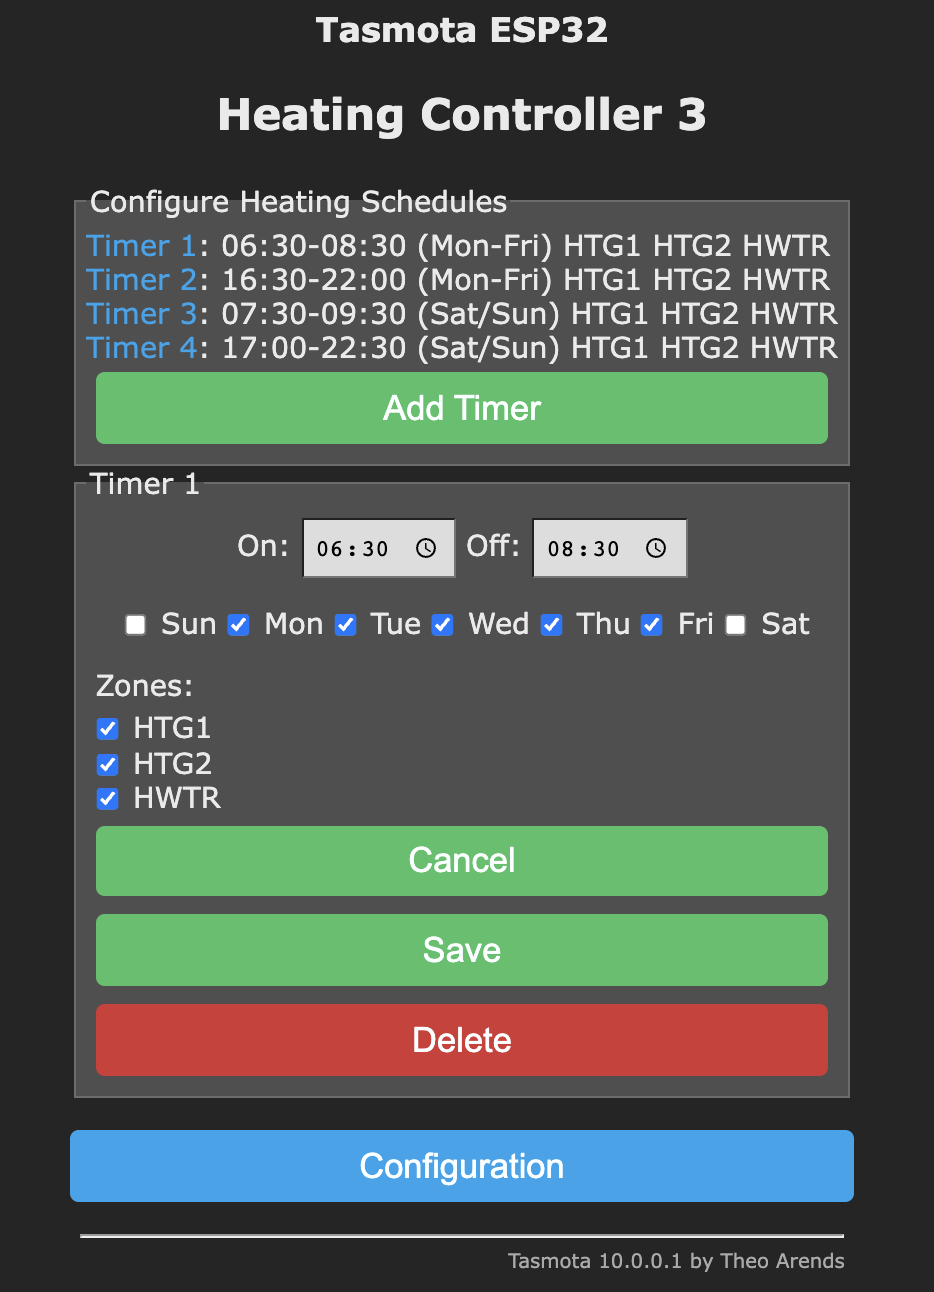
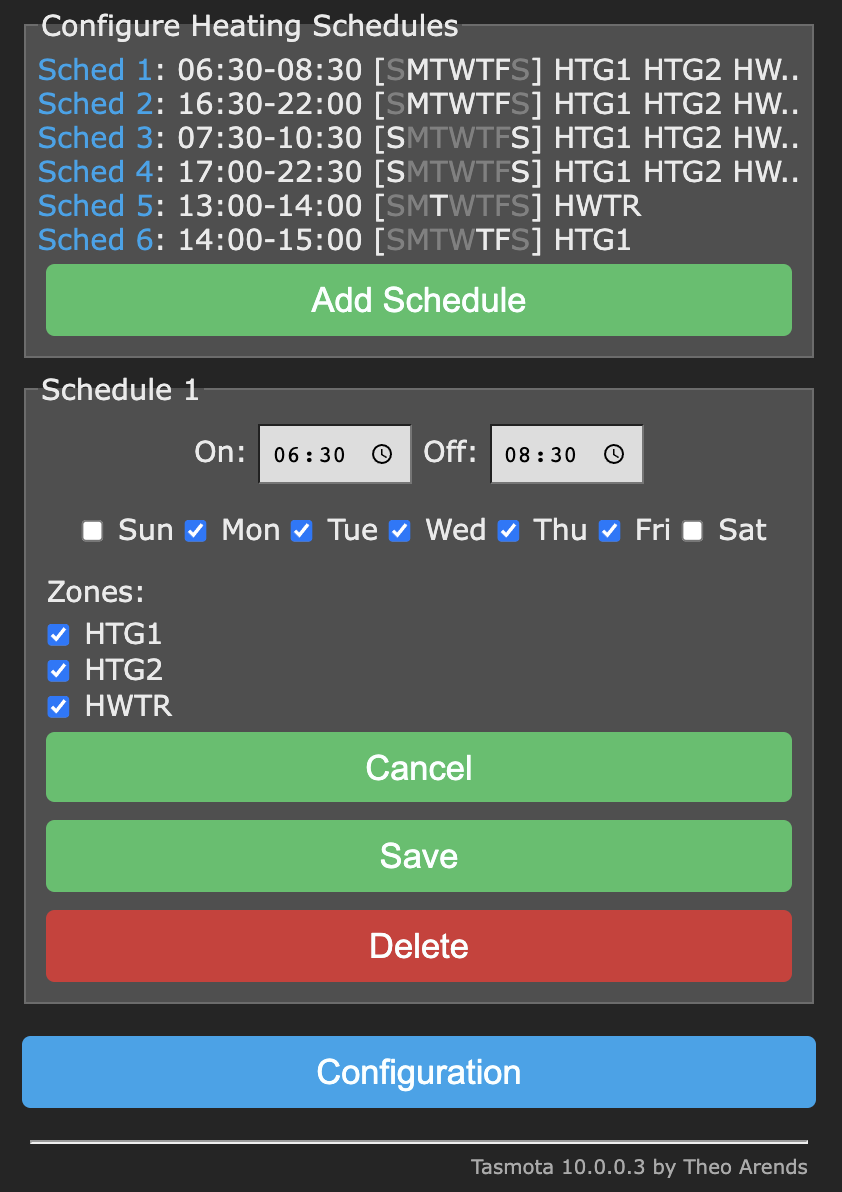
Updated screenshots
Also fixed a bug where the web sensor info was not updating on the home page after a zone label was updated.

diff --git a/README.md b/README.md
@@ -44,7 +44,7 @@ This heating controller was tested with Tasmota32.bin
 
 ### 2. Configure Template
 
-Using the Tasmota web UI, navigate to **Configuration | Configure Other**. Paste the following json template into the Template field. Tick "Activate" checkbox and "Save".
+Using the Tasmota web UI, navigate to **Configuration | Configure Other**. Paste the following json template into the Template field. Tick "Activate" checkbox and "Save". You may need to adjust the template to match the number of relays you have attached.
 
 ```json
 {"NAME":"Tasmota ESP32","GPIO":[1,1,1,1,1,1,1,1,1,1,1,1,1,1,1,1376,0,640,608,224,0,225,226,32,0,0,0,0,33,34,1,1,1,0,0,1],"FLAG":0,"BASE":1}
@@ -96,11 +96,12 @@ Options can be enabled/disabled by using the Configure Heating web page.
 
 ## Operation
 
-1. Use the Configure Heating web page to set zone labels, modes and schedules.
+1. Navigate to Configuration | Configure Heating to set zone labels, modes, schedules, and options. Or click on the Zone summary info at the top of the Tasmota Home page.
 
-<img src="/screenshots/manage_heating.png" width="400">
-<img src="/screenshots/manage_zone.png" width="400">
-<img src="/screenshots/manage_schedule.png" width="400">
+<img src="./screenshots/tasmota_home.png" width="400">
+<img src="./screenshots/manage_heating.png" width="400">
+<img src="./screenshots/manage_zone.png" width="400">
+<img src="./screenshots/manage_schedule.png" width="400">
 
 3. If physical buttons are configured, each button can operate an associated zone as follows. SINGLE press: zone will toggle from Auto to Advance mode. Auto on switches to Advance off and Auto off switches to Advance on etc. DOUBLE press: Zone switches mode in the following order with each double press: Auto -> All Day -> Const On -> Const Off -> Auto. TRIPLE press: mode switches from Auto to Boost (1 hour), or if boost is activated, from Boost to Auto.
 4. Ensure that schedule on/off times do not overlap as this may result in unexpected behaviour.
@@ -118,3 +119,6 @@ The scripts are large and if PSRAM is not present the heap may decrease to a poi
 ## Planned Enhancements
 
 If memory and system resources allow, a nice to have would be a "schedule" command to create/update/delete schedules via console/MQTT.
+
+Tasmota Berry now has native support for WS2812 so the pixel indicator functionality will be reworked to make use of this new feature.
+
